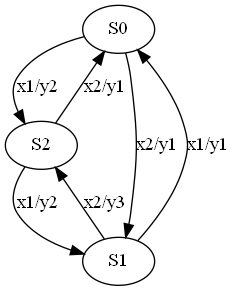
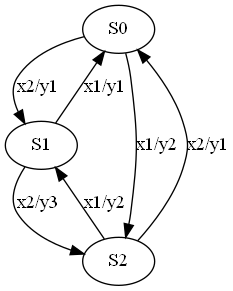
replace digraph to multi digraph

diff --git a/test1/test1/test1.py b/test1/test1/test1.py
@@ -3,7 +3,6 @@ import csv
 import os
 import subprocess
 import networkx as nx
-import pygraphviz as pgv
 from enum import Enum
 
 class Types(str, Enum):
@@ -13,8 +12,9 @@ class Types(str, Enum):
 def read_mealy(file):
     with open(file, newline='\n') as f:
         reader = csv.reader(f, delimiter=';')
-        graph = nx.DiGraph()
+        graph = nx.MultiDiGraph()
         states = reader.__next__()[1:]
+        graph.add_nodes_from(states)
         for line in reader:
             in_signal = line[0]  
             transitions = line[1:]
@@ -26,7 +26,7 @@ def read_mealy(file):
 def read_moore(file):
     with open(file, newline='\n') as f:
         reader = csv.reader(f, delimiter=';')
-        graph = nx.DiGraph()
+        graph = nx.MultiDiGraph()
         out_signals = reader.__next__()[1:]
         states = reader.__next__()[1:]
         for state, out_signal in zip(states, out_signals):
@@ -76,11 +76,12 @@ def process(graph, in_signals, option):
         next_state = None
         for neighbor in graph.neighbors(current_state):
             edge_data = graph.get_edge_data(current_state, neighbor)
-            if edge_data['in_signal'] == symbol:
-                next_state = neighbor
-                out_signal = edge_data['out_signal'] if option == Types.Mealy.value else graph.nodes[next_state]['out_signal']
-                output_sequence.append(out_signal)
-                break
+            for edge in edge_data.values():
+                if edge['in_signal'] == symbol:
+                    next_state = neighbor
+                    out_signal = edge['out_signal'] if option == Types.Mealy.value else graph.nodes[next_state]['out_signal']
+                    output_sequence.append(out_signal)
+                    break
             
         current_state = next_state
         
@@ -96,14 +97,13 @@ def check(sequence, graph, option, order):
         print(f'Test {order} failed')
 
 def execute(execute_file, option):
-    i = 0
     folder_name = option.split('-')[0]
     output_type = option.split('-')[2]
     command = ['python3', execute_file] if execute_file.endswith('py') else [execute_file]
 
-    for input_file in os.listdir(f'..\{folder_name}\sequence'): 
-        sequence = f'..\{folder_name}\sequence\{input_file}'
-        in_path = f'..\{folder_name}\input\{input_file}'
+    for i in range(len(os.listdir(f'..\{folder_name}\sequence'))): 
+        sequence = f'..\{folder_name}\sequence\input{i}.csv'
+        in_path = f'..\{folder_name}\input\input{i}.csv'
         output = f'..\{folder_name}\output\output{i}.csv'
 
         input_path = f'..\{folder_name}\graphs\input{i}.png'
@@ -117,7 +117,6 @@ def execute(execute_file, option):
 
         check(sequence, output_graph, output_type, i)
         draw_graph(output_path, output_graph, output_type)
-        i += 1
 
 def exit_help():
     print('lab1.py <execute file> <mealy-to-moore|moore-to-mealy>')

diff --git a/test2/test2/test2.py b/test2/test2/test2.py
@@ -3,7 +3,6 @@ import csv
 import os
 import subprocess
 import networkx as nx
-import pygraphviz as pgv
 from enum import Enum
 
 class Types(str, Enum):
@@ -13,8 +12,9 @@ class Types(str, Enum):
 def read_mealy(file):
     with open(file, newline='\n') as f:
         reader = csv.reader(f, delimiter=';')
-        graph = nx.DiGraph()
+        graph = nx.MultiDiGraph()
         states = reader.__next__()[1:]
+        graph.add_nodes_from(states)
         for line in reader:
             in_signal = line[0]  
             transitions = line[1:]
@@ -26,7 +26,7 @@ def read_mealy(file):
 def read_moore(file):
     with open(file, newline='\n') as f:
         reader = csv.reader(f, delimiter=';')
-        graph = nx.DiGraph()
+        graph = nx.MultiDiGraph()
         out_signals = reader.__next__()[1:]
         states = reader.__next__()[1:]
         for state, out_signal in zip(states, out_signals):
@@ -76,11 +76,12 @@ def process(graph, in_signals, option):
         next_state = None
         for neighbor in graph.neighbors(current_state):
             edge_data = graph.get_edge_data(current_state, neighbor)
-            if edge_data['in_signal'] == symbol:
-                next_state = neighbor
-                out_signal = edge_data['out_signal'] if option == Types.Mealy.value else graph.nodes[next_state]['out_signal']
-                output_sequence.append(out_signal)
-                break
+            for edge in edge_data.values():
+                if edge['in_signal'] == symbol:
+                    next_state = neighbor
+                    out_signal = edge['out_signal'] if option == Types.Mealy.value else graph.nodes[next_state]['out_signal']
+                    output_sequence.append(out_signal)
+                    break
             
         current_state = next_state
         

diff --git a/draw/draw/draw.py b/draw/draw/draw.py
@@ -17,8 +17,9 @@ OUT_FORMATS = [
 def read_mealy(file):
     with open(file, newline='\n') as f:
         reader = csv.reader(f, delimiter=';')
-        graph = nx.DiGraph()
+        graph = nx.MultiDiGraph()
         states = reader.__next__()[1:]
+	graph.add_nodes_from(states)
         for line in reader:
             in_signal = line[0]  
             transitions = line[1:]
@@ -30,7 +31,7 @@ def read_mealy(file):
 def read_moore(file):
     with open(file, newline='\n') as f:
         reader = csv.reader(f, delimiter=';')
-        graph = nx.DiGraph()
+        graph = nx.MultiDiGraph()
         out_signals = reader.__next__()[1:]
         states = reader.__next__()[1:]
         for state, out_signal in zip(states, out_signals):
